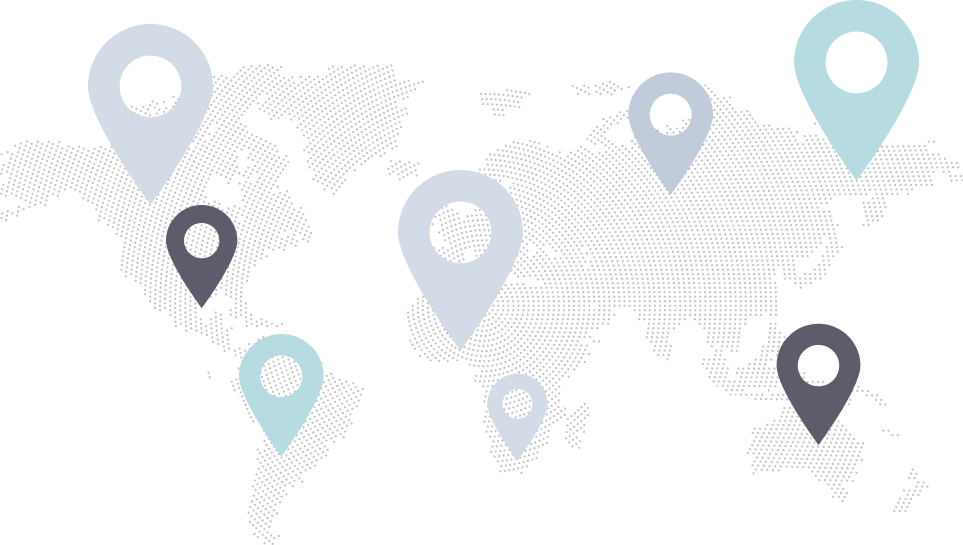
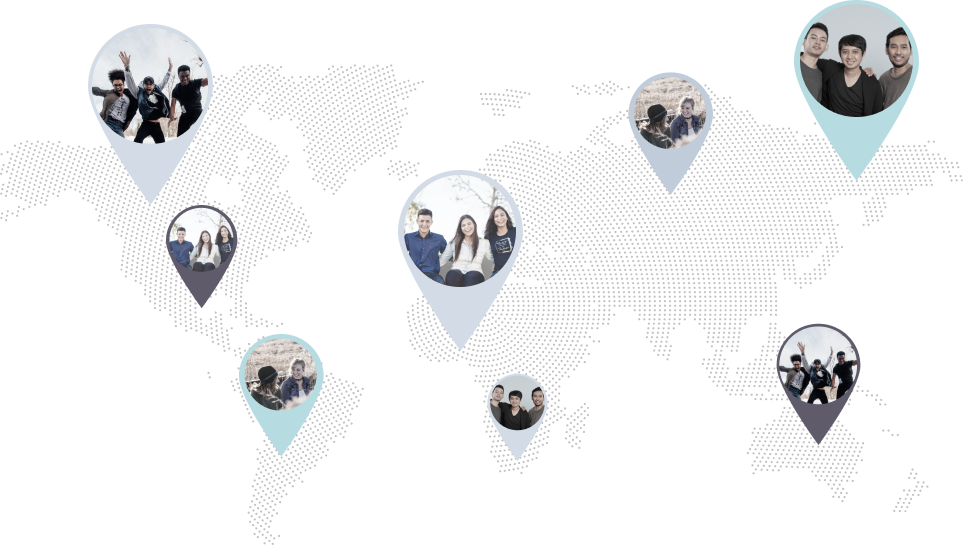
careers page photos updated

diff --git a/src/pages/careers/style.scss b/src/pages/careers/style.scss
@@ -96,7 +96,7 @@
         width: 383px;
 
         @media screen and (max-width: 600px) {
-          width: 308px;
+          width: 100%;
         }
 
         &-1 {
@@ -104,6 +104,69 @@
           font-size: 16px;
           line-height: 25px;
           color: #696969;
+
+          @media screen and (max-width: 600px) {
+            text-align: center;
+          }
+        }
+
+        &-2 {
+          margin-top: 26px;
+          height: 292px;
+          background: url('../../assets/img/careers_back_1.png') no-repeat center center;
+          background-size: 100% 100%;
+
+          @media screen and (max-width: 600px) {
+            height: 214px;
+          }
+        }
+      }
+
+      &-2 {
+        background: url('../../assets/img/careers_back_2.png') no-repeat center center;
+        background-size: 100% 100%;
+        width: 393px;
+        margin-left: 40px;
+
+        @media screen and (max-width: 600px) {
+          height: 466px;
+          width: 100%;
+          margin-left: 0;
+          margin-top: 16px;
+        }
+      }
+
+      &-3 {
+        width: 330px;
+        margin-left: 40px;
+
+        @media screen and (max-width: 600px) {
+          width: 100%;
+          margin-left: 0;
+          margin-top: 26px;
+        }
+
+        &-1 {
+          background: url('../../assets/img/careers_back_1.png') no-repeat center center;
+          background-size: 100% 100%;
+          height: calc(50% - 13px);
+          width: 100%;
+
+          @media screen and (max-width: 600px) {
+            height: 214px;
+          }
+        }
+
+        &-2 {
+          margin-top: 26px;
+          background: url('../../assets/img/careers_back_1.png') no-repeat center center;
+          background-size: 100% 100%;
+          height: calc(50% - 13px);
+          width: 100%;
+
+          @media screen and (max-width: 600px) {
+            height: 214px;
+          }
         }
       }
     }

diff --git a/src/pages/careers/index.js b/src/pages/careers/index.js
@@ -111,7 +111,10 @@ function Careers() {
 						<div className="section-2-content-1-2"></div>
 					</div>
 					<div className="section-2-content-2"></div>
-					<div className="section-2-content-3"></div>
+					<div className="section-2-content-3">
+						<div className="section-2-content-3-1"></div>
+						<div className="section-2-content-3-2"></div>
+					</div>
 				</div>
 			</div>
 			<div className="section-3">
